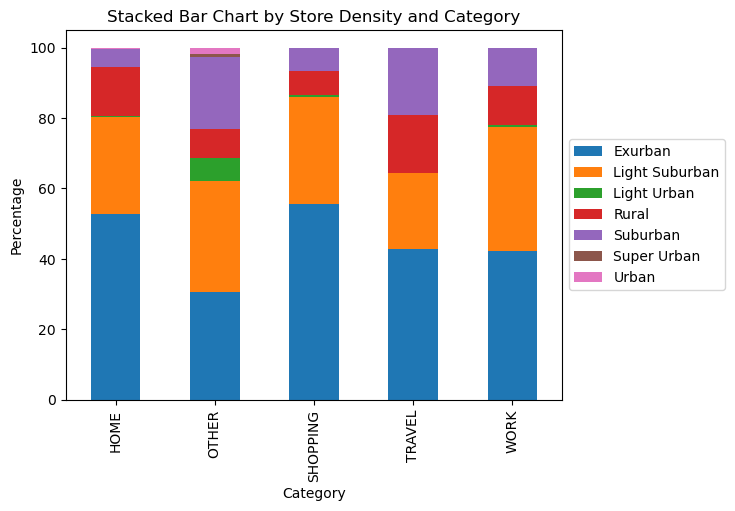
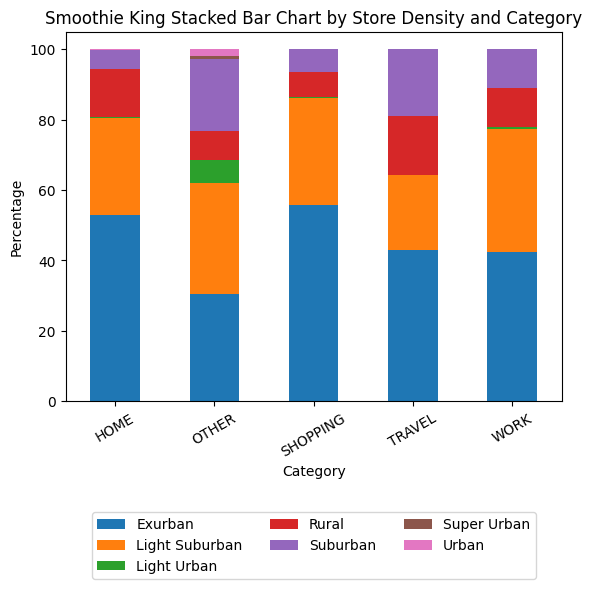
stacked bar chart title and lengend

diff --git a/src/create_eda_figure.py b/src/create_eda_figure.py
@@ -39,14 +39,11 @@ def create_stack_bar_chart(df, col_name, title, out_dir):
     fig, ax = plt.subplots()
     pivoted.plot(kind='bar', stacked=True, ax=ax)
 
-    # add text
-    # for container in ax.containers:
-    #     ax.bar_label(container, labels=[f'{x:.1f}%' for x in container.datavalues])
-
     ax.set_xlabel('Category')
     ax.set_ylabel('Percentage')
     ax.set_title(title)
-    ax.legend(loc='center left', bbox_to_anchor=(1, 0.5))
+    plt.xticks(rotation=30)
+    ax.legend(loc='lower center', bbox_to_anchor=(0.5, -0.5), ncol=3)
     try:
         plt.savefig("img/" + out_dir + "stacked_bar_plot.png", bbox_inches="tight")
     except:
@@ -97,10 +94,10 @@ def main():
         subway_can_df, "store_density", "Store Density", "Subway Canada Store Density Bar Chart", "subway_canada_store_density"
     )
     create_stack_bar_chart(
-        smoothie_df, "market_size", "Stacked Bar Chart by Market Size and Category", "market_size_stack"
+        smoothie_df, "market_size", "Smoothie King Stacked Bar Chart by Market Size and Category", "market_size_stack"
     )
     create_stack_bar_chart(
-        smoothie_df, "store_density", "Stacked Bar Chart by Store Density and Category", "store_density_stack"
+        smoothie_df, "store_density", "Smoothie King Stacked Bar Chart by Store Density and Category", "store_density_stack"
     )
     create_boxplot(
         smoothie_df, "centerxy_gla_1mi", "Gross leasable area within 1 mile radius", 
